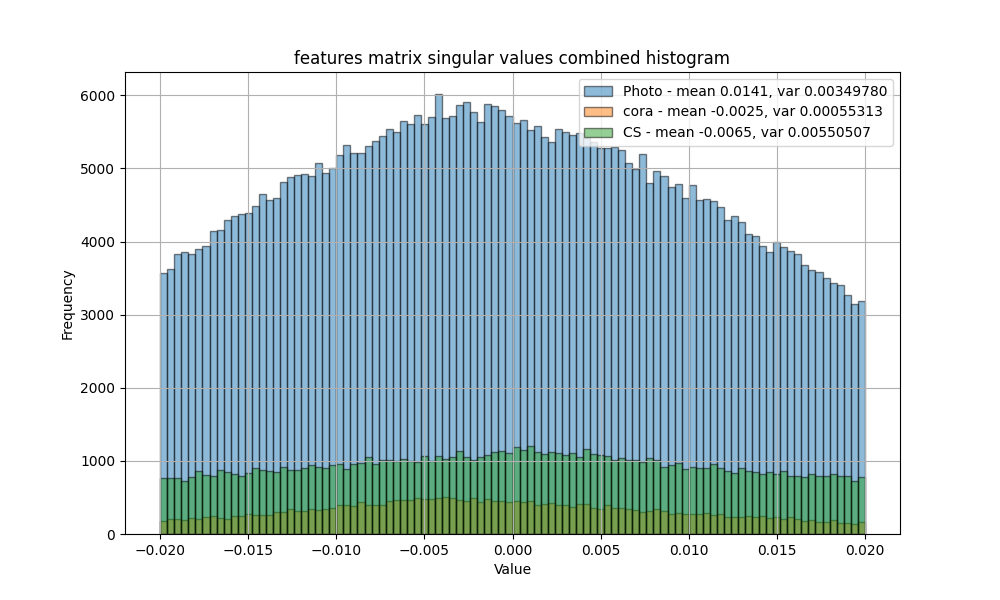
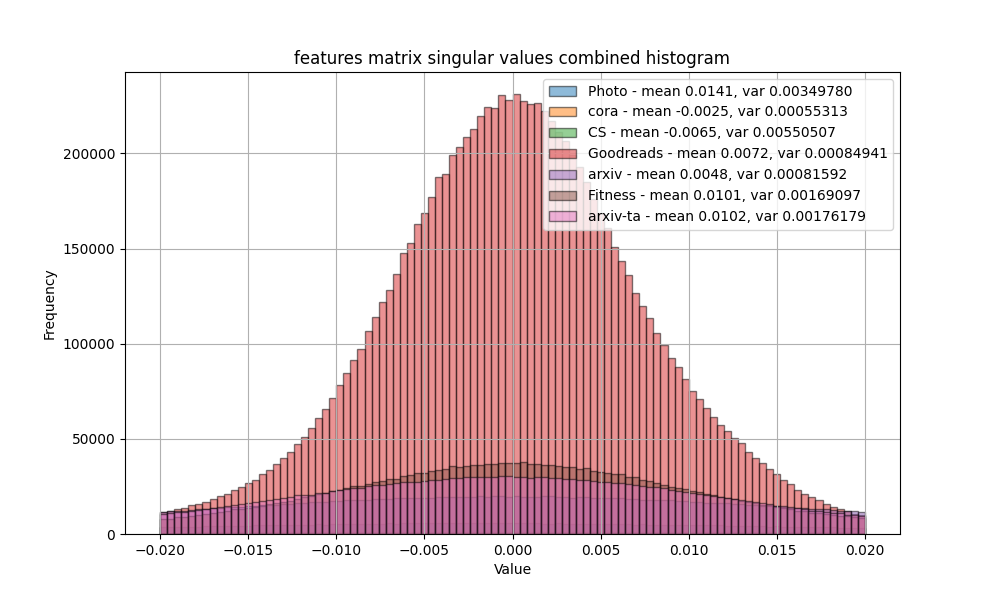
added last featrues matrix to histogram

diff --git a/datasets_svd_comparison/compare_svd_decomposition.py b/datasets_svd_comparison/compare_svd_decomposition.py
@@ -39,7 +39,7 @@ def plot_histograms(
     for j in range(2):
         plt.figure(figsize=(10, 6))
         for matrix, dataset_name in zip(
-            data[j * jump_size : j * jump_size + jump_size], dataset_names[j * jump_size :]
+            data[j * jump_size :], dataset_names[j * jump_size :]
         ):
             mean = np.mean(matrix)
             variance = np.var(matrix)
